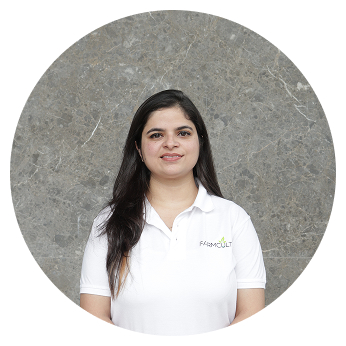
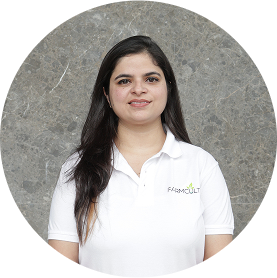
WhyFarmcult Page updated

diff --git a/src/components/WhyFarmcult/WfcTeam.jsx b/src/components/WhyFarmcult/WfcTeam.jsx
@@ -4,7 +4,6 @@ const WfcTeam = () => {
   return (
     <>
       <section className="wfc-team-section py-10 px-4 md:py-16 md:px-[5%] pb-16 md:pb-[8rem] max-w-[1600px] mx-auto">
-        {/* Notice the reversed grid cols for the team header layout: lg:grid-cols-[1fr_1.2fr] */}
         <div className="wfc-team-inner grid grid-cols-1 lg:grid-cols-[1fr_1.2fr] gap-10 md:gap-12 lg:gap-[100px] items-stretch">
           <div className="wfc-team-image-col w-full h-[300px] sm:h-[400px] lg:h-[359px">
             <img 
@@ -19,59 +18,81 @@ const WfcTeam = () => {
               <span className='font-normal text-[15px]'>Our Team</span>
             </div>
             <p className="wfc-foundation-desc text-[16px] md:text-[15px] text-text-primary leading-[1.8] md:leading-[29px] mb-6 md:mb-8">
-              Behind every greenhouse is a team of planners, engineers, agronomists, and operators
-              working together.
+              Behind every greenhouse is a team of planners, engineers, agronomists, and operators working together.
             </p>
             <p className="wfc-foundation-desc text-[16px] md:text-[15px] text-text-primary leading-[1.8] md:leading-[29px] mb-6 md:mb-8">
-              From feasibility assessments to system installation and farm monitoring, our team
-              ensures that every project runs with clarity and discipline.
+              From feasibility assessments to system installation and farm monitoring, our team ensures that every project runs with clarity and discipline.
             </p>
             <p className="wfc-foundation-desc text-[16px] md:text-[15px] text-text-primary leading-[1.8] md:leading-[29px] mb-0">
-              We combine on-ground agricultural knowledge with modern technology systems to deliver
-              consistent performance.
+              We combine on-ground agricultural knowledge with modern technology systems to deliver consistent performance.
             </p>
           </div>
         </div>
       </section>
 
       <section className="wfc-team-cards-section px-4 md:px-[5%] pb-16 md:pb-[4rem] max-w-[1600px] mx-auto">
-        <div className="wfc-team-cards-grid grid grid-cols-1 sm:grid-cols-2 md:grid-cols-3 gap-y-12 md:gap-y-16 gap-x-6 md:gap-x-8">
-          {[
-            { name: 'Pritpal Singh', role: 'Founder & CEO', image: '/whyFarmCult/PritpalSingh.jpg' },
-            { name: 'Sanampreet', role: 'Manager: Projects & Business Development', image: '/whyFarmCult/teamSanampreet.jpg' },
-            { name: 'Aman', role: 'Sr Agronomist', image: '/whyFarmCult/Aman.jpg' },
-            { name: 'Subhajit', role: 'Procurement Manager', image: '/whyFarmCult/Subhajit.jpg' },
-            { name: 'Harleen', role: 'Business Development Manager', image: '/whyFarmCult/Harleen.jpg' },
-            { name: 'Dr Akshiptika', role: 'Head- Research and Training', image: '/whyFarmCult/DrAkshiptika.jpg' },
-            { name: 'Aditya Rathi', role: 'Jr Agronomist', image: '/whyFarmCult/AdityaRathi.jpg' }
-          ].map((member, i) => (
-            <div className="wfc-team-card flex flex-col items-center group transition-transform duration-300 hover:-translate-y-2" key={i}>
-              {/* Circular Professional Photo */}
-              <div className="wfc-team-avatar-container w-[70%] sm:w-full aspect-square rounded-full overflow-hidden mb-6 md:mb-8 max-w-[250px] md:max-w-[336px] border-0 mx-auto">
-                {member.image ? (
-                  <img src={member.image} alt={member.name} className="w-full h-full object-fill" />
-                ) : (
-                  <div className="w-full h-full bg-[#C4C4C4]" />
-                )}
-              </div>
-              
-              {/* Info Box */}
-              <div className="wfc-team-info-box bg-white rounded-[24px] p-5 md:p-6 w-full max-w-[280px] md:max-w-[320px] flex flex-col items-center shadow-sm border-0 mx-auto">
-                <div className="flex items-center gap-2 md:gap-3 mb-4 w-full justify-between">
-                  <span className="wfc-team-name text-[15px] md:text-[16px] font-bold text-black">{member.name}</span>
-                  <a href="#" className="wfc-linkedin-link shrink-0">
-                    <img src="/icons/linkedin.png" alt="LinkedIn" className="w-5 h-5 object-contain" />
-                  </a>
-                </div>
+        
+        <div className="flex flex-col gap-y-16">
+
+          {/* ROW 1 → 4 MEMBERS */}
+          <div className="flex justify-center gap-8 flex-wrap">
+            
+            {[
+              { name: 'Pritpal Singh', role: 'Founder & CEO', image: '/whyFarmCult/PritpalSingh.jpg' },
+              { name: 'Sanampreet', role: 'Manager: Projects & Business Development', image: '/whyFarmCult/teamSanampreet.jpg' },
+              { name: 'Harleen', role: 'Business Development Manager', image: '/whyFarmCult/Harleen.jpg' },
+              { name: 'Dr Akshiptika', role: 'Head- Research and Training', image: '/whyFarmCult/DrAkshiptika.jpg' },
+            ].map((member, i) => (
+              <div className="wfc-team-card flex flex-col items-center w-[250px]" key={i}>
                 
-                {/* Role Capsule - 8DC83A with 25% transparency */}
-                <div className="wfc-team-role-tag w-full py-[0.5rem] md:py-[0.6rem] px-3 md:px-4 bg-[#8DC83A]/25 rounded-[12px] text-[0.8rem] md:text-[15px] font-normal text-black flex items-center justify-center text-center">
-                  <span>{member.role}</span>
+                <div className="wfc-team-avatar-container w-full aspect-square rounded-full overflow-hidden mb-6">
+                  <img src={member.image} alt={member.name} className="w-full h-full object-fill" />
                 </div>
+
+                <div className="wfc-team-info-box bg-white rounded-[24px] p-5 w-full flex flex-col items-center shadow-sm">
+                  <div className="flex items-center justify-between w-full mb-3">
+                    <span className="font-bold text-black">{member.name}</span>
+                    <img src="/icons/linkedin.png" className="w-5 h-5" />
+                  </div>
+                  <div className="w-full py-2 bg-[#8DC83A]/25 rounded-[12px] text-center text-sm">
+                    {member.role}
+                  </div>
+                </div>
+
               </div>
-            </div>
-          ))}
+            ))}
+          </div>
+
+          {/* ROW 2 → 3 MEMBERS */}
+          <div className="flex justify-center gap-8 flex-wrap">
+            
+            {[
+              { name: 'Subhajit', role: 'Procurement Manager', image: '/whyFarmCult/SubhajitM.jpg' },
+              { name:  'Aman', role: 'Sr Agronomist', image: '/whyFarmCult/Aman.jpg'},
+              { name: 'Aditya Rathi', role: 'Jr Agronomist', image: '/whyFarmCult/AdityaRathi.jpg' }
+            ].map((member, i) => (
+              <div className="wfc-team-card flex flex-col items-center w-[250px]" key={i}>
+                
+                <div className="wfc-team-avatar-container w-full aspect-square rounded-full overflow-hidden mb-6">
+                  <img src={member.image} alt={member.name} className="w-full h-full object-fill" />
+                </div>
+
+                <div className="wfc-team-info-box bg-white rounded-[24px] p-5 w-full flex flex-col items-center shadow-sm">
+                  <div className="flex items-center justify-between w-full mb-3">
+                    <span className="font-bold text-black">{member.name}</span>
+                    <img src="/icons/linkedin.png" className="w-5 h-5" />
+                  </div>
+                  <div className="w-full py-2 bg-[#8DC83A]/25 rounded-[12px] text-center text-sm">
+                    {member.role}
+                  </div>
+                </div>
+
+              </div>
+            ))}
+          </div>
+
         </div>
+
       </section>
     </>
   );

diff --git a/src/components/WhyFarmcult/WfcBanner.jsx b/src/components/WhyFarmcult/WfcBanner.jsx
@@ -1,8 +1,8 @@
 import React from 'react';
 
 const WfcBanner = ({ 
-  title = "Grow smarter. Use less. Build for tomorrow.", 
-  subtitle = "Technology-backed. Resource-efficient. Long-term focused.", 
+  title = "", 
+  subtitle = "", 
   image = "/whyFarmCult/GrowSmaterUselessBuildForTomorrow.jpg",
   tag = "",
   variant = "dark"
@@ -12,18 +12,17 @@ const WfcBanner = ({
   return (
     <section 
       className={`wfc-about-banner relative flex items-center justify-center lg:justify-start overflow-hidden ${
-        isDark ? 'min-h-[300px]  py-16 lg:py-0' : 'pt-16 md:pt-24 pb-10 md:pb-14'
+        isDark ? 'min-h-[400px] md:min-h-[500px] lg:min-h-[600px] py-16 lg:py-0' : 'pt-16 md:pt-24 pb-10 md:pb-14'
       }`}
     >
-      {/* Background — image+overlay for dark, plain white for light */}
+      {/* Background — image (overlay removed) */}
       {isDark ? (
         <div className="absolute inset-0 z-0">
           <img 
             src={image} 
             alt={title} 
-            className="w-full h-full object-cover object-[center_80%]"
+            className="w-full h-full object-cover object-center"
           />
-          <div className="absolute inset-0 bg-black/50 md:bg-black/50" />
         </div>
       ) : (
         <div className="absolute inset-0 bg-white z-0" />

diff --git a/src/pages/WhyFarmcult.jsx b/src/pages/WhyFarmcult.jsx
@@ -10,7 +10,6 @@ import WfcFeatures from '../components/WhyFarmcult/WfcFeatures';
 import WfcFoundation from '../components/WhyFarmcult/WfcFoundation';
 import WfcBanner from '../components/WhyFarmcult/WfcBanner';
 import WfcTeam from '../components/WhyFarmcult/WfcTeam';
-import ParticipantsReviews from '../components/ParticipantsReviews';
 import ContactSection from '../components/ContactSection';
 import Footer from '../components/Footer';
 
@@ -94,7 +93,6 @@ const WhyFarmcult = () => {
       <WfcFoundation />
       <WfcBanner />
       <WfcTeam />
-      <ParticipantsReviews />
       <ContactSection />
       <Footer />
     </motion.div>
